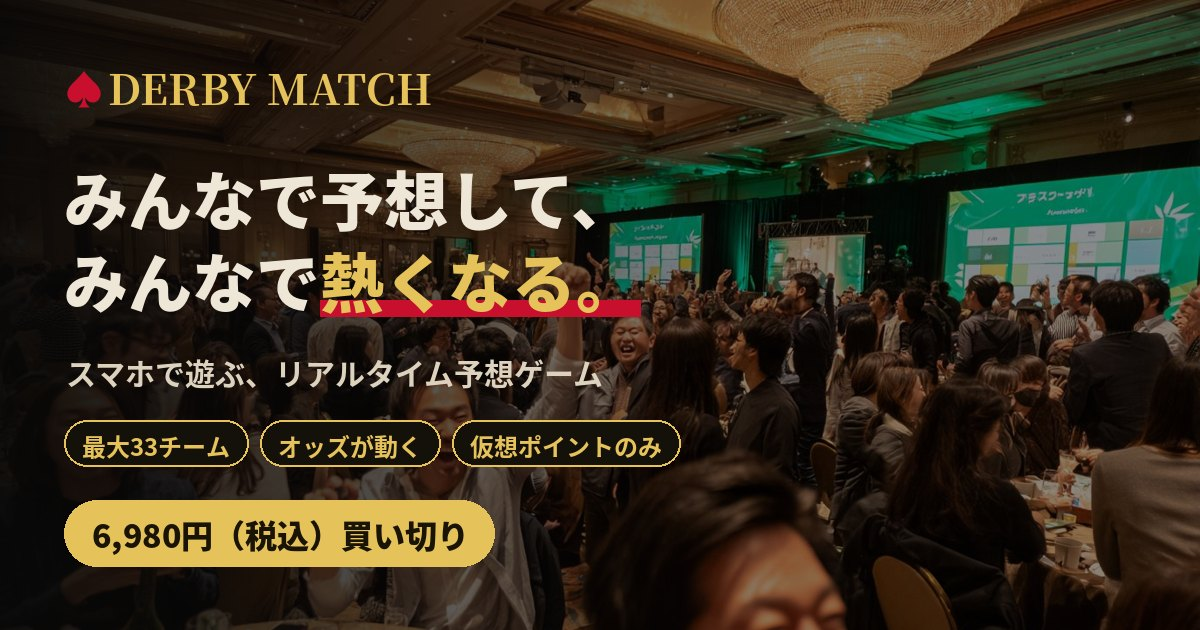
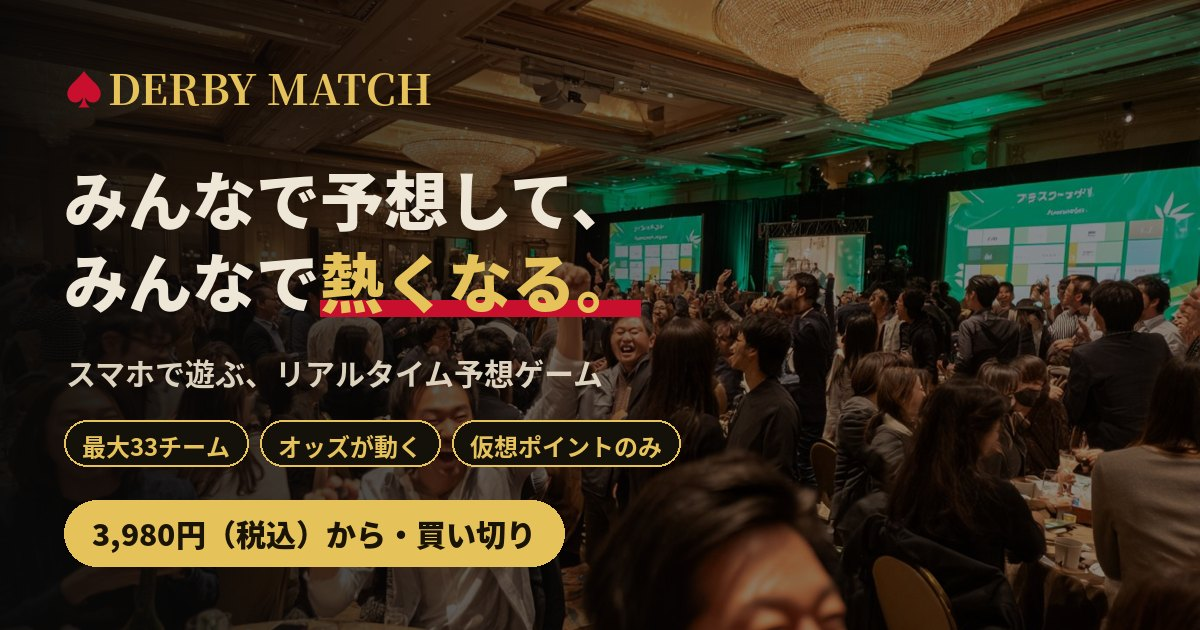
Switch LP to three pricing plans (Lite / Standard / Premium)
Claude-Session: https://claude.ai/code/session_01Ju6cYg9ZMJnDFHNu13VbtC

Changed region(s): [[0.0617, 0.7841, 0.4933, 0.9048]]

diff --git a/index.html b/index.html
@@ -4,16 +4,16 @@
 <meta charset="utf-8">
 <meta name="viewport" content="width=device-width,initial-scale=1">
 <title>DERBY MATCH｜忘年会・社内イベントの余興に。スマホで遊ぶリアルタイム予想ゲーム</title>
-<meta name="description" content="DERBY MATCH（ダービーマッチ）は、忘年会・新年会・社内イベント・懇親会・サークルの余興で使える、スマホ参加型のリアルタイム予想ゲームです。最大33チームが同時参加、オッズが動く全5ゲーム＋練習。アプリ不要・仮想ポイントのみ。6,980円（税込）買い切り、無料体験版あり。">
+<meta name="description" content="DERBY MATCH（ダービーマッチ）は、忘年会・新年会・社内イベント・懇親会・サークルの余興で使える、スマホ参加型のリアルタイム予想ゲームです。最大33チームが同時参加、オッズが動く全5ゲーム＋練習。アプリ不要・仮想ポイントのみ。3,980円（税込）から・買い切り、無料体験版あり。">
 <meta property="og:title" content="DERBY MATCH｜みんなで予想して、みんなで熱くなる。">
-<meta property="og:description" content="最大33チームがスマホで同時参加。オッズがリアルタイムで動く予想ゲーム。6,980円（税込）買い切り。">
+<meta property="og:description" content="最大33チームがスマホで同時参加。オッズがリアルタイムで動く予想ゲーム。3,980円（税込）から・買い切り。">
 <meta name="msvalidate.01" content="29E3620B5BD026A4ED8CA385BB60916E">
 <link rel="canonical" href="https://ywataru0515-lang.github.io/Bc/">
 <link rel="alternate" type="text/markdown" href="https://ywataru0515-lang.github.io/Bc/llms.txt" title="DERBY MATCH 概要（AI向け）">
 <meta name="robots" content="index,follow,max-image-preview:large">
 <script type="application/ld+json">{"@context": "https://schema.org", "@type": "WebSite", "name": "DERBY MATCH", "url": "https://ywataru0515-lang.github.io/Bc/", "inLanguage": "ja"}</script>
-<script type="application/ld+json">{"@context": "https://schema.org", "@type": "Product", "name": "DERBY MATCH（ダービーマッチ）", "description": "忘年会・新年会・社内イベント・懇親会・大学サークルの余興向けの、スマホ参加型リアルタイム予想ゲーム。司会者はPC、参加者はスマホのブラウザで参加し、出場者の勝敗を予想して仮想ポイントをBETする。オッズは全チームのBETでリアルタイムに変動。最大33チーム、全5ゲーム＋練習ゲーム。金銭のやり取りはなく、参加者の個人情報登録も不要。約300名規模の法人の社内イベントで実施実績あり。", "image": ["https://ywataru0515-lang.github.io/Bc/og.jpg"], "brand": {"@type": "Brand", "name": "DERBY MATCH"}, "category": "パーティーゲーム / 社内イベント用ツール", "url": "https://ywataru0515-lang.github.io/Bc/", "offers": {"@type": "Offer", "price": "6980", "priceCurrency": "JPY", "availability": "https://schema.org/InStock", "url": "https://groupevent.booth.pm/items/8709025"}, "additionalProperty": [{"@type": "PropertyValue", "name": "最大参加チーム数", "value": "33"}, {"@type": "PropertyValue", "name": "ゲーム数", "value": "本番5ゲーム＋練習"}, {"@type": "PropertyValue", "name": "必要なもの", "value": "司会者用PC1台、参加者のスマホ、Googleアカウント・GitHubアカウント（無料）"}, {"@type": "PropertyValue", "name": "体験版", "value": "https://ywataru0515-lang.github.io/Bc/demo.html"}]}</script>
-<script type="application/ld+json">{"@context": "https://schema.org", "@type": "FAQPage", "mainEntity": [{"@type": "Question", "name": "購入前に試せますか？", "acceptedAnswer": {"@type": "Answer", "text": "はい。無料の体験版で、参加者側の画面をスマホでそのまま試せます（他チームの動きと司会者の操作は自動で進みます）。"}}, {"@type": "Question", "name": "ITに詳しくなくても準備できますか？", "acceptedAnswer": {"@type": "Answer", "text": "はい。導入マニュアルに実際の画面写真を載せており、その通りに進めれば準備できます。初回はおよそ30〜40分が目安です。プログラミングの知識は必要ありません。"}}, {"@type": "Question", "name": "費用は6,980円以外にかかりますか？", "acceptedAnswer": {"@type": "Answer", "text": "DERBY MATCH本体の費用は6,980円（税込）のみです。画面の公開に使うGitHub Pagesと、データ連携に使うFirebaseは、どちらも無料プランでご利用いただけます。"}}, {"@type": "Question", "name": "何回でも使えますか？", "acceptedAnswer": {"@type": "Answer", "text": "はい。買い切りなので、開催回数の制限はありません。チーム名やお題を変えて、何度でもイベントを開けます。"}}, {"@type": "Question", "name": "参加者はアプリを入れる必要がありますか？", "acceptedAnswer": {"@type": "Answer", "text": "不要です。スマホのブラウザ（Safari・Chromeなど）でURLを開くだけで参加できます。"}}, {"@type": "Question", "name": "何人まで参加できますか？", "acceptedAnswer": {"@type": "Answer", "text": "最大33チームまで同時に参加できます。1チームの人数に制限はないので、チーム分けを工夫すれば100人以上のイベントにも対応できます。"}}, {"@type": "Question", "name": "当日、運営は何人必要ですか？", "acceptedAnswer": {"@type": "Answer", "text": "ホスト画面を操作する司会者1名で運営できます。お題の進行役を別に立てると、さらにスムーズです。"}}, {"@type": "Question", "name": "お金を賭けるゲームではありませんか？", "acceptedAnswer": {"@type": "Answer", "text": "いいえ。使用するのはゲーム内の仮想ポイントのみで、金銭のやり取りや換金の機能は一切ありません。"}}, {"@type": "Question", "name": "法人で請求書払いはできますか？", "acceptedAnswer": {"@type": "Answer", "text": "はい、ご相談ください。ページ下部のお問い合わせフォームで「法人の請求書払いの相談」を選んでご連絡いただくか、y.wataru0515@gmail.com までお知らせください。"}}, {"@type": "Question", "name": "領収書は発行できますか？", "acceptedAnswer": {"@type": "Answer", "text": "BOOTHの購入履歴から領収書を発行できます。詳しくはBOOTHのヘルプをご確認ください。"}}, {"@type": "Question", "name": "購入前に質問したいです。", "acceptedAnswer": {"@type": "Answer", "text": "ページ下部のお問い合わせフォーム、または y.wataru0515@gmail.com までお気軽にご連絡ください。"}}]}</script>
+<script type="application/ld+json">{"@context": "https://schema.org", "@type": "Product", "name": "DERBY MATCH（ダービーマッチ）", "description": "忘年会・新年会・社内イベント・懇親会・大学サークルの余興向けの、スマホ参加型リアルタイム予想ゲーム。司会者はPC、参加者はスマホのブラウザで参加し、出場者の勝敗を予想して仮想ポイントをBETする。オッズは全チームのBETでリアルタイムに変動。最大33チーム、全5ゲーム＋練習ゲーム。金銭のやり取りはなく、参加者の個人情報登録も不要。約300名規模の法人の社内イベントで実施実績あり。", "image": ["https://ywataru0515-lang.github.io/Bc/og.jpg"], "brand": {"@type": "Brand", "name": "DERBY MATCH"}, "category": "パーティーゲーム / 社内イベント用ツール", "url": "https://ywataru0515-lang.github.io/Bc/", "offers": {"@type": "AggregateOffer", "priceCurrency": "JPY", "lowPrice": "3980", "highPrice": "19800", "offerCount": "3", "url": "https://groupevent.booth.pm/items/8709025", "offers": [{"@type": "Offer", "name": "ライト（HTMLのみ）", "price": "3980", "priceCurrency": "JPY", "availability": "https://schema.org/InStock", "url": "https://groupevent.booth.pm/items/8709025"}, {"@type": "Offer", "name": "スタンダード（HTML＋設定マニュアル＋レクリエーション事例集）", "price": "7980", "priceCurrency": "JPY", "availability": "https://schema.org/InStock", "url": "https://groupevent.booth.pm/items/8709025"}, {"@type": "Offer", "name": "プレミアム（スタンダード＋オンライン設定代行）", "price": "19800", "priceCurrency": "JPY", "availability": "https://schema.org/InStock", "url": "https://ywataru0515-lang.github.io/Bc/#contact"}]}, "additionalProperty": [{"@type": "PropertyValue", "name": "最大参加チーム数", "value": "33"}, {"@type": "PropertyValue", "name": "ゲーム数", "value": "本番5ゲーム＋練習"}, {"@type": "PropertyValue", "name": "必要なもの", "value": "司会者用PC1台、参加者のスマホ、Googleアカウント・GitHubアカウント（無料）"}, {"@type": "PropertyValue", "name": "体験版", "value": "https://ywataru0515-lang.github.io/Bc/demo.html"}]}</script>
+<script type="application/ld+json">{"@context": "https://schema.org", "@type": "FAQPage", "mainEntity": [{"@type": "Question", "name": "購入前に試せますか？", "acceptedAnswer": {"@type": "Answer", "text": "はい。無料の体験版で、参加者側の画面をスマホでそのまま試せます（他チームの動きと司会者の操作は自動で進みます）。"}}, {"@type": "Question", "name": "ITに詳しくなくても準備できますか？", "acceptedAnswer": {"@type": "Answer", "text": "はい。スタンダード以上の設定マニュアルに実際の画面写真を載せており、その通りに進めれば準備できます。初回はおよそ30〜40分が目安です。プログラミングの知識は必要ありません。設定に不安がある方は、設定代行つきのプレミアムプランもご用意しています。"}}, {"@type": "Question", "name": "プランの違いは何ですか？", "acceptedAnswer": {"@type": "Answer", "text": "ライト（3,980円）はHTMLのみで、設定マニュアル・事例集・サポートは付きません。スタンダード（7,980円）は実画面つきの設定マニュアルとレクリエーション事例集が付きます。プレミアム（19,800円）はスタンダードの内容に加えて、オンライン（画面共有）での設定代行と請求書払いに対応します。迷ったらスタンダードがおすすめです。"}}, {"@type": "Question", "name": "購入代金以外に費用はかかりますか？", "acceptedAnswer": {"@type": "Answer", "text": "かかるのは各プランの購入代金（税込）のみです。画面の公開に使うGitHub Pagesと、データ連携に使うFirebaseは、どちらも無料プランでご利用いただけます。"}}, {"@type": "Question", "name": "何回でも使えますか？", "acceptedAnswer": {"@type": "Answer", "text": "はい。買い切りなので、開催回数の制限はありません。チーム名やお題を変えて、何度でもイベントを開けます。"}}, {"@type": "Question", "name": "参加者はアプリを入れる必要がありますか？", "acceptedAnswer": {"@type": "Answer", "text": "不要です。スマホのブラウザ（Safari・Chromeなど）でURLを開くだけで参加できます。"}}, {"@type": "Question", "name": "何人まで参加できますか？", "acceptedAnswer": {"@type": "Answer", "text": "最大33チームまで同時に参加できます。1チームの人数に制限はないので、チーム分けを工夫すれば100人以上のイベントにも対応できます。"}}, {"@type": "Question", "name": "当日、運営は何人必要ですか？", "acceptedAnswer": {"@type": "Answer", "text": "ホスト画面を操作する司会者1名で運営できます。お題の進行役を別に立てると、さらにスムーズです。"}}, {"@type": "Question", "name": "お金を賭けるゲームではありませんか？", "acceptedAnswer": {"@type": "Answer", "text": "いいえ。使用するのはゲーム内の仮想ポイントのみで、金銭のやり取りや換金の機能は一切ありません。"}}, {"@type": "Question", "name": "法人で請求書払いはできますか？", "acceptedAnswer": {"@type": "Answer", "text": "はい、ご相談ください。ページ下部のお問い合わせフォームで「法人の請求書払いの相談」を選んでご連絡いただくか、y.wataru0515@gmail.com までお知らせください。"}}, {"@type": "Question", "name": "領収書は発行できますか？", "acceptedAnswer": {"@type": "Answer", "text": "BOOTHの購入履歴から領収書を発行できます。詳しくはBOOTHのヘルプをご確認ください。"}}, {"@type": "Question", "name": "購入前に質問したいです。", "acceptedAnswer": {"@type": "Answer", "text": "ページ下部のお問い合わせフォーム、または y.wataru0515@gmail.com までお気軽にご連絡ください。"}}]}</script>
 <meta property="og:type" content="website">
 <meta property="og:url" content="https://ywataru0515-lang.github.io/Bc/">
 <meta property="og:image" content="https://ywataru0515-lang.github.io/Bc/og.jpg">
@@ -220,6 +220,23 @@ header .btn{padding:9px 20px;font-size:14px}
 .price li::before{content:"✓";position:absolute;left:0;color:var(--green);font-weight:900}
 .price .invoice{margin-top:18px;font-size:14px;color:var(--text);background:rgba(0,0,0,.3);border:1px dashed var(--gold2);border-radius:10px;padding:10px 12px}
 .price .invoice a{color:var(--gold);font-weight:700;white-space:nowrap}
+.plans{display:grid;grid-template-columns:repeat(3,1fr);gap:18px;margin-top:44px;align-items:stretch}
+.plan{position:relative;background:var(--panel2);border:1px solid var(--line);border-radius:18px;padding:30px 22px;display:flex;flex-direction:column;text-align:center}
+.plan.best{border:2px solid var(--gold);background:linear-gradient(180deg,#221b10,#14110c);transform:translateY(-8px)}
+.plan .rib{position:absolute;top:-14px;left:50%;transform:translateX(-50%);background:var(--red);color:#fff;font-weight:700;font-size:12px;padding:4px 14px;border-radius:999px;white-space:nowrap}
+.plan .pname{font-family:var(--en);font-style:italic;color:var(--gold);letter-spacing:.12em;font-size:15px}
+.plan .pname small{display:block;font-family:"Noto Sans JP",sans-serif;font-style:normal;color:var(--muted);font-size:12px;letter-spacing:0}
+.plan .pyen{font-family:var(--serif);font-size:44px;font-weight:900;color:var(--text);line-height:1.2;margin-top:8px}
+.plan.best .pyen{color:var(--gold)}
+.plan .pyen small{font-size:14px;color:var(--muted);font-weight:700}
+.plan .pfor{font-size:13px;color:var(--muted);margin-bottom:6px}
+.plan ul{list-style:none;text-align:left;margin:16px 0 22px;flex:1}
+.plan li{padding:6px 0 6px 24px;position:relative;font-size:14px}
+.plan li::before{content:"✓";position:absolute;left:0;color:var(--green);font-weight:900}
+.plan li.no{color:var(--muted)}
+.plan li.no::before{content:"—";color:var(--muted)}
+.plan .btn{width:100%;padding:14px 16px;font-size:15px}
+@media(max-width:860px){.plans{grid-template-columns:1fr}.plan.best{transform:none;order:-1}}
 .cmp{width:100%;border-collapse:collapse;margin-top:48px;font-size:14px}
 .cmp th,.cmp td{border:1px solid var(--line);padding:14px 12px;text-align:center;vertical-align:middle}
 .cmp thead th{background:#181510;color:var(--muted);font-weight:700}
@@ -326,7 +343,7 @@ footer nav{margin:12px 0;display:flex;gap:18px;justify-content:center;flex-wrap:
       </div>
       <div class="hero-ctas"><a class="btn" href="https://groupevent.booth.pm/items/8709025" target="_blank" rel="noopener">BOOTHで今すぐ購入する <small>→</small></a>
       <a class="btn ghost" href="https://ywataru0515-lang.github.io/Bc/demo.html" target="_blank" rel="noopener">📱 無料でスマホ体験 <small>→</small></a></div>
-      <p class="price-line"><b>6,980円</b>（税込）買い切り ／ 何回でも開催OK</p>
+      <p class="price-line"><b>3,980円</b>（税込）から・買い切り ／ 何回でも開催OK</p>
     </div>
     <div class="hero-visual">
       <div class="photo"><img src="img/x0.jpg" alt="スマホを見ながら盛り上がる参加者"></div>
@@ -607,8 +624,9 @@ footer nav{margin:12px 0;display:flex;gap:18px;justify-content:center;flex-wrap:
         <ul>
           <li><span class="k">01</span><div>ホスト用画面（host.html）<small>司会者がPCで操作。締切・結果確定・ランキング・各種設定。</small></div></li>
           <li><span class="k">02</span><div>参加者用画面（player.html）<small>参加者がスマホで操作。チーム入室・BET・ランキング閲覧。</small></div></li>
-          <li><span class="k">03</span><div>導入マニュアル（PowerPoint）<small>実際の画面写真つき。GitHub Pages・Firebaseの設定から当日の進行まで。</small></div></li>
-          <li><span class="k">04</span><div>何度でも開催できる利用権<small>買い切り。月額費用や開催ごとの追加料金はありません。</small></div></li>
+          <li><span class="k">03</span><div>設定マニュアル（PowerPoint）<small>スタンダード・プレミアムに付属。実際の画面写真つきで、GitHub Pages・Firebaseの設定から当日の進行まで。</small></div></li>
+          <li><span class="k">04</span><div>レクリエーション事例集<small>スタンダード・プレミアムに付属。そのまま使えるお題・進行のアイデア集。</small></div></li>
+          <li><span class="k">05</span><div>何度でも開催できる利用権<small>買い切り。月額費用や開催ごとの追加料金はありません。</small></div></li>
         </ul>
       </div>
       <div class="box reveal">
@@ -631,28 +649,54 @@ footer nav{margin:12px 0;display:flex;gap:18px;justify-content:center;flex-wrap:
     <div class="center">
       <p class="eyebrow">PRICE</p>
       <h2>料金</h2>
-      <p class="lead">一度の購入で、何回でもイベントを開けます。</p>
+      <p class="lead">どのプランも買い切り。一度の購入で、何回でもイベントを開けます。</p>
     </div>
-    <div class="price reveal">
-      <span class="rib">買い切り・追加料金なし</span>
-      <p class="per">DERBY MATCH 一式</p>
-      <p class="yen">6,980<small>円（税込）</small></p>
-      <p class="per">BOOTHでのダウンロード販売</p>
-      <ul>
-        <li>ホスト画面・参加者画面のHTML一式</li>
-        <li>実画面つき導入マニュアル</li>
-        <li>最大33チーム・全5ゲーム＋練習</li>
-        <li>開催回数の制限なし（3回使えば1回あたり約2,300円）</li>
-      </ul>
-      <a class="btn" href="https://groupevent.booth.pm/items/8709025" target="_blank" rel="noopener">BOOTHで購入する <small>→</small></a>
-      <p class="invoice">🏢 法人の請求書払いはご相談ください　<a href="#contact">お問い合わせはこちら →</a></p>
+    <div class="plans">
+      <div class="plan reveal">
+        <p class="pname">LITE<small>ライト</small></p>
+        <p class="pyen">3,980<small>円（税込）</small></p>
+        <p class="pfor">自分で設定できる方向け</p>
+        <ul>
+          <li>ホスト画面・参加者画面のHTML一式</li>
+          <li>最大33チーム・全5ゲーム＋練習</li>
+          <li>開催回数の制限なし</li>
+          <li class="no">設定マニュアル・事例集なし</li>
+          <li class="no">個別サポートなし</li>
+        </ul>
+        <a class="btn ghost" href="https://groupevent.booth.pm/items/8709025" target="_blank" rel="noopener">BOOTHで購入 <small>→</small></a>
+      </div>
+      <div class="plan best reveal">
+        <span class="rib">いちばん人気・おすすめ</span>
+        <p class="pname">STANDARD<small>スタンダード</small></p>
+        <p class="pyen">7,980<small>円（税込）</small></p>
+        <p class="pfor">はじめての幹事さんに</p>
+        <ul>
+          <li>ライトの内容すべて</li>
+          <li>実画面つき設定マニュアル（GitHub・Firebase）</li>
+          <li>レクリエーション事例集（お題・進行アイデア）</li>
+          <li>3回使えば1回あたり約2,660円</li>
+        </ul>
+        <a class="btn" href="https://groupevent.booth.pm/items/8709025" target="_blank" rel="noopener">BOOTHで購入 <small>→</small></a>
+      </div>
+      <div class="plan reveal">
+        <p class="pname">PREMIUM<small>プレミアム</small></p>
+        <p class="pyen">19,800<small>円（税込）</small></p>
+        <p class="pfor">設定をまるごと任せたい法人に</p>
+        <ul>
+          <li>スタンダードの内容すべて</li>
+          <li>オンライン設定代行（画面共有で約60分。パスワードはお預かりしません）</li>
+          <li>請求書払い・見積書に対応</li>
+        </ul>
+        <a class="btn ghost" href="#contact">お問い合わせで申し込む <small>→</small></a>
+      </div>
     </div>
+    <p class="note center" style="margin-top:18px">ライト・スタンダードはBOOTHでのダウンロード販売です。法人の請求書払いは、どのプランでも<a href="#contact" style="color:var(--gold)">ご相談</a>ください。</p>
 
     <div class="tbl-scroll">
     <table class="cmp">
       <thead><tr><th></th><th class="me">DERBY MATCH</th><th>イベント会社に依頼</th><th>ビンゴ・クイズ</th></tr></thead>
       <tbody>
-        <tr><th>費用</th><td class="me">6,980円・買い切り<br><small style="color:var(--gold)">3回使えば1回あたり約2,300円</small></td><td>開催ごとに費用が発生</td><td>景品代・道具代</td></tr>
+        <tr><th>費用</th><td class="me">3,980円から・買い切り<br><small style="color:var(--gold)">スタンダードなら3回使えば1回あたり約2,660円</small></td><td>開催ごとに費用が発生</td><td>景品代・道具代</td></tr>
         <tr><th>全員参加</th><td class="me"><span class="o">◎</span><br>全チームがスマホで勝負</td><td><span class="o">○</span></td><td><span class="d">△</span><br>見ているだけの人が出やすい</td></tr>
         <tr><th>盛り上がり</th><td class="me"><span class="o">◎</span><br>オッズ変動・逆転劇</td><td><span class="o">◎</span></td><td><span class="d">△</span><br>運だけで単調になりがち</td></tr>
         <tr><th>準備</th><td class="me">初回約30分<br>2回目以降はお題入力のみ</td><td>打ち合わせが必要</td><td>道具の準備</td></tr>
@@ -706,8 +750,9 @@ footer nav{margin:12px 0;display:flex;gap:18px;justify-content:center;flex-wrap:
     </div>
     <div class="faq">
       <details><summary>購入前に試せますか？</summary><p class="a">はい。<a href="https://ywataru0515-lang.github.io/Bc/demo.html" target="_blank" rel="noopener" style="color:var(--gold)">無料の体験版</a>で、参加者側の画面をスマホでそのまま試せます（他チームの動きと司会者の操作は自動で進みます）。</p></details>
-      <details><summary>ITに詳しくなくても準備できますか？</summary><p class="a">はい。導入マニュアルに実際の画面写真を載せており、その通りに進めれば準備できます。初回はおよそ30〜40分が目安です。プログラミングの知識は必要ありません。</p></details>
-      <details><summary>費用は6,980円以外にかかりますか？</summary><p class="a">DERBY MATCH本体の費用は6,980円（税込）のみです。画面の公開に使うGitHub Pagesと、データ連携に使うFirebaseは、どちらも無料プランでご利用いただけます。</p></details>
+      <details><summary>ITに詳しくなくても準備できますか？</summary><p class="a">はい。スタンダード以上の設定マニュアルに実際の画面写真を載せており、その通りに進めれば準備できます。初回はおよそ30〜40分が目安です。プログラミングの知識は必要ありません。設定に不安がある方は、設定代行つきのプレミアムプランもご用意しています。</p></details>
+      <details><summary>プランの違いは何ですか？</summary><p class="a">ライト（3,980円）はHTMLのみで、設定マニュアル・事例集・サポートは付きません。スタンダード（7,980円）は実画面つきの設定マニュアルとレクリエーション事例集が付きます。プレミアム（19,800円）はスタンダードの内容に加えて、オンライン（画面共有）での設定代行と請求書払いに対応します。迷ったらスタンダードがおすすめです。</p></details>
+      <details><summary>購入代金以外に費用はかかりますか？</summary><p class="a">かかるのは各プランの購入代金（税込）のみです。画面の公開に使うGitHub Pagesと、データ連携に使うFirebaseは、どちらも無料プランでご利用いただけます。</p></details>
       <details><summary>何回でも使えますか？</summary><p class="a">はい。買い切りなので、開催回数の制限はありません。チーム名やお題を変えて、何度でもイベントを開けます。</p></details>
       <details><summary>参加者はアプリを入れる必要がありますか？</summary><p class="a">不要です。スマホのブラウザ（Safari・Chromeなど）でURLを開くだけで参加できます。</p></details>
       <details><summary>何人まで参加できますか？</summary><p class="a">最大33チームまで同時に参加できます。1チームの人数に制限はないので、チーム分けを工夫すれば100人以上のイベントにも対応できます。</p></details>
@@ -726,7 +771,7 @@ footer nav{margin:12px 0;display:flex;gap:18px;justify-content:center;flex-wrap:
       <dt>返品・返金</dt>
       <dd>デジタルコンテンツの性質上、購入後の返品・返金はお受けできません。購入前に「ご用意いただくもの」をご確認ください。</dd>
       <dt>サポート</dt>
-      <dd>導入マニュアルでのご案内を基本とします。個別の設定代行や、当日の運営サポートは行っておりません。不具合のご連絡はお問い合わせ先までお願いします。</dd>
+      <dd>ライトはサポート対象外です。スタンダードは設定マニュアルでのご案内、プレミアムはオンラインでの設定代行までを行います。当日の運営サポートは行っておりません。不具合のご連絡はお問い合わせ先までお願いします。</dd>
     </dl>
   </div>
 </section>
@@ -739,7 +784,7 @@ footer nav{margin:12px 0;display:flex;gap:18px;justify-content:center;flex-wrap:
     <div class="photo"><img loading="lazy" src="img/banquet.jpg" alt="宴会場で歓声を上げる参加者" style="width:100%;aspect-ratio:16/9;object-fit:cover"></div>
     <div class="cta-block">
       <a class="btn" href="https://groupevent.booth.pm/items/8709025" target="_blank" rel="noopener">BOOTHで今すぐ購入する <small>→</small></a>
-      <p class="micro">6,980円（税込）買い切り ／ 購入後すぐにダウンロード ／ 法人の請求書払いはご相談ください</p>
+      <p class="micro">3,980円（税込）から・買い切り ／ 購入後すぐにダウンロード ／ 法人の請求書払いはご相談ください</p>
     </div>
 
     <form class="contact" id="cform">
@@ -753,6 +798,7 @@ footer nav{margin:12px 0;display:flex;gap:18px;justify-content:center;flex-wrap:
       <select id="f-type" required>
         <option>購入前の質問</option>
         <option>導入できるか相談したい</option>
+        <option>プレミアムプラン（設定代行）の申し込み</option>
         <option>法人の請求書払いの相談</option>
         <option>購入後の不具合</option>
         <option>その他</option>
@@ -777,7 +823,7 @@ footer nav{margin:12px 0;display:flex;gap:18px;justify-content:center;flex-wrap:
 
 <div class="sticky" id="sticky">
   <a class="btn ghost" href="https://ywataru0515-lang.github.io/Bc/demo.html" target="_blank" rel="noopener">体験</a>
-  <a class="btn" href="https://groupevent.booth.pm/items/8709025" target="_blank" rel="noopener">BOOTHで購入 6,980円</a>
+  <a class="btn" href="#price">料金プランを見る 3,980円〜</a>
 </div>
 
 <script>
